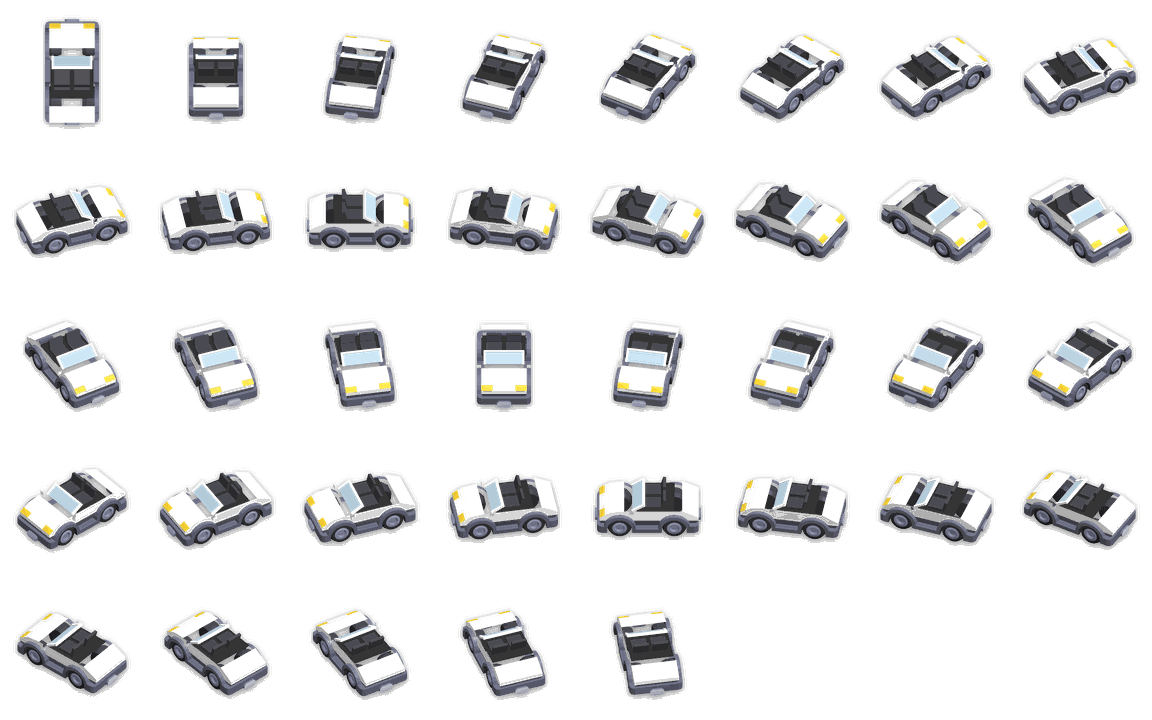
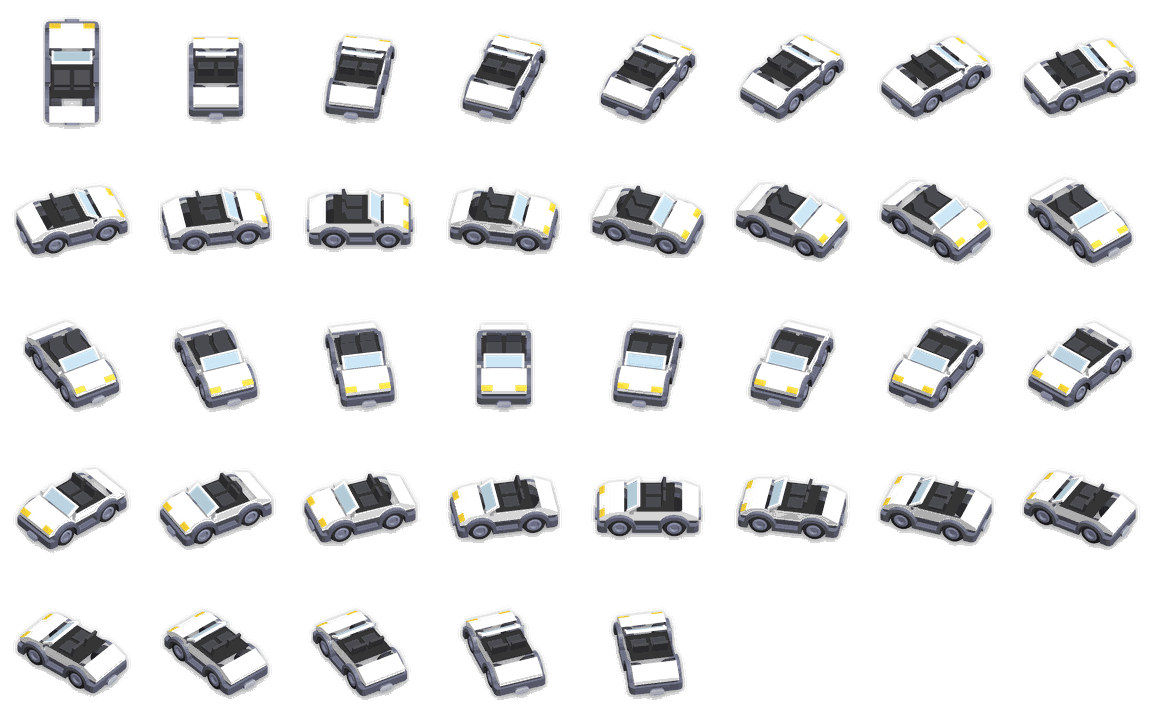
Cabrio Scheibe ganz vorn, neue Form Kombi
Claude-Session: https://claude.ai/code/session_01SXf38QvTJENXvqTHvojj2Z

diff --git a/app/src/components/map/car-sprite.tsx b/app/src/components/map/car-sprite.tsx
@@ -15,7 +15,7 @@ import { Gesture, GestureDetector, GestureHandlerRootView } from 'react-native-g
 
 import type { Vehicle } from '@/lib/vehicle';
 
-export type CarForm = 'coupe' | 'coupe-fluegel' | 'cabrio' | 'fastback' | 'limousine' | 'gelaende';
+export type CarForm = 'coupe' | 'coupe-fluegel' | 'cabrio' | 'fastback' | 'limousine' | 'kombi' | 'gelaende';
 export type CarLook = { form: CarForm; color: string };
 
 export const CAR_FORMS: { id: CarForm; label: string }[] = [
@@ -24,6 +24,7 @@ export const CAR_FORMS: { id: CarForm; label: string }[] = [
   { id: 'cabrio', label: 'Cabrio' },
   { id: 'fastback', label: 'Fastback' },
   { id: 'limousine', label: 'Limousine' },
+  { id: 'kombi', label: 'Kombi' },
   { id: 'gelaende', label: 'Geländewagen' },
 ];
 
@@ -48,6 +49,7 @@ const SHEETS: Record<CarForm, Sheet> = {
   cabrio: { o: require('@/assets/cars/cabrio-o.png'), m: require('@/assets/cars/cabrio-m.png'), ol: require('@/assets/cars/cabrio-o-l.png'), ml: require('@/assets/cars/cabrio-m-l.png') },
   fastback: { o: require('@/assets/cars/hatchback-sports-o.png'), m: require('@/assets/cars/hatchback-sports-m.png'), ol: require('@/assets/cars/hatchback-sports-o-l.png'), ml: require('@/assets/cars/hatchback-sports-m-l.png') },
   limousine: { o: require('@/assets/cars/sedan-o.png'), m: require('@/assets/cars/sedan-m.png'), ol: require('@/assets/cars/sedan-o-l.png'), ml: require('@/assets/cars/sedan-m-l.png') },
+  kombi: { o: require('@/assets/cars/kombi-o.png'), m: require('@/assets/cars/kombi-m.png'), ol: require('@/assets/cars/kombi-o-l.png'), ml: require('@/assets/cars/kombi-m-l.png') },
   gelaende: { o: require('@/assets/cars/suv-o.png'), m: require('@/assets/cars/suv-m.png'), ol: require('@/assets/cars/suv-o-l.png'), ml: require('@/assets/cars/suv-m-l.png') },
 };
 

diff --git a/app/src/lib/vehicle.ts b/app/src/lib/vehicle.ts
@@ -26,7 +26,7 @@ export type Vehicle = {
   /** Symbol auf der Karte: Pfeil oder das eigene Auto (gts997 war der Test vom 6.11., gilt wie auto) */
   mapSymbol?: 'pfeil' | 'gts997' | 'auto';
   /** Form und Lackfarbe des Kartensymbols (components/map/car-sprite.tsx) */
-  look?: { form: 'coupe' | 'coupe-fluegel' | 'cabrio' | 'fastback' | 'limousine' | 'gelaende'; color: string };
+  look?: { form: 'coupe' | 'coupe-fluegel' | 'cabrio' | 'fastback' | 'limousine' | 'kombi' | 'gelaende'; color: string };
 };
 
 export const FUELS: { id: Fuel; label: string }[] = [

diff --git a/app/assets/cars/README.md b/app/assets/cars/README.md
@@ -1,7 +1,7 @@
 # Kartensymbole der Fahrzeuge
 
 Platzhalter aus dem Kenney Car Kit 3.1, Lizenz CC0 (https://kenney.nl, Creative Commons Zero).
-Modelle: sedan-sports (Coupé mit Flügel, ohne Spoiler als Coupé, ohne Dach als Cabrio), hatchback-sports (Fastback), sedan (Limousine), suv (Geländewagen).
+Modelle: sedan-sports (Coupé mit Flügel, ohne Spoiler als Coupé, ohne Dach als Cabrio), hatchback-sports (Fastback), sedan (Limousine, mit nach hinten gezogenem Dach als Kombi), suv (Geländewagen).
 
 Je Form zwei Bogen mit 8 x 5 Feldern zu 144 px, 37 Ansichten:
 - Feld 0: Draufsicht, Front oben
